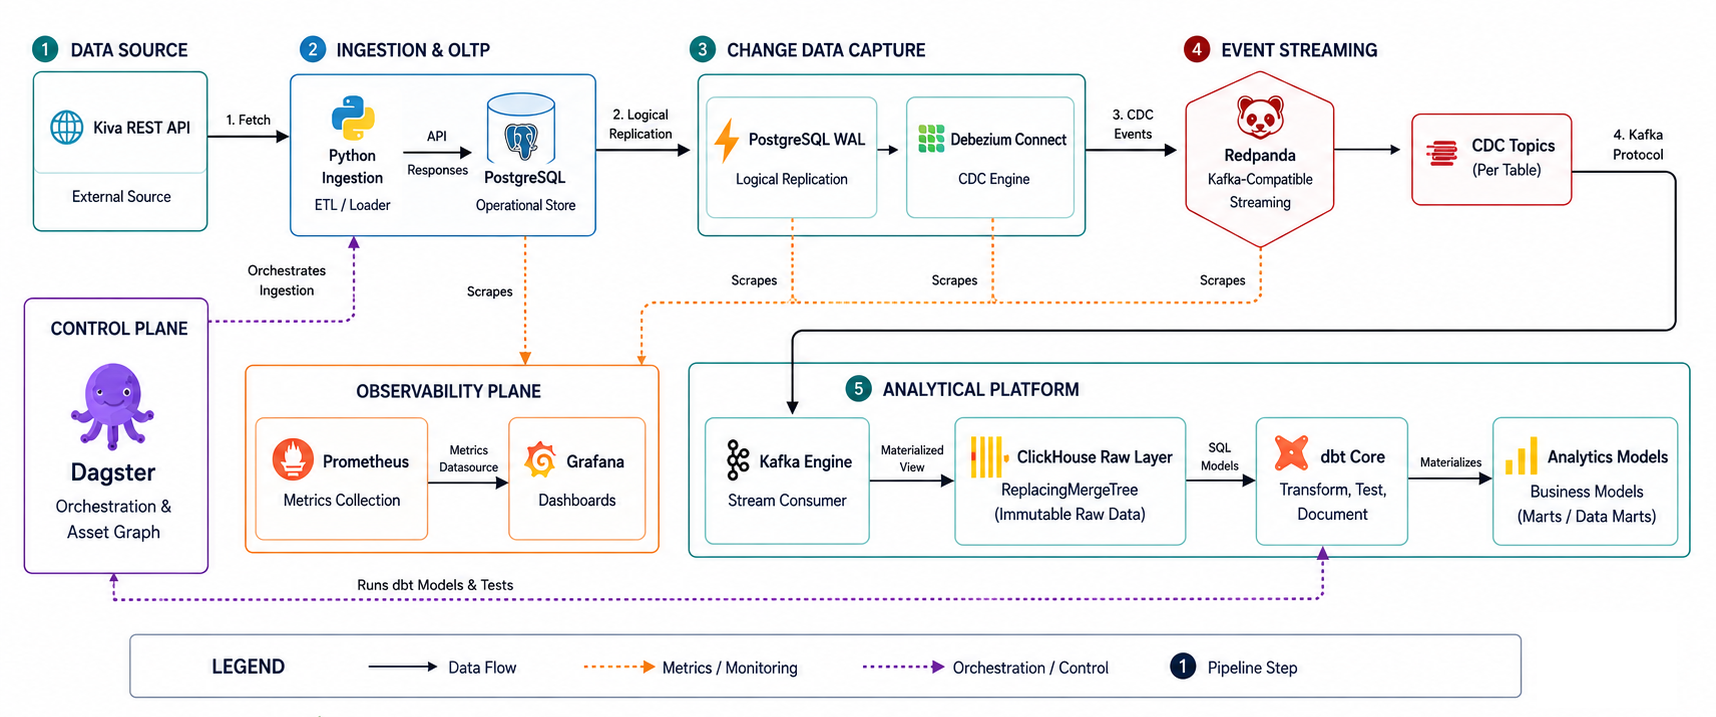
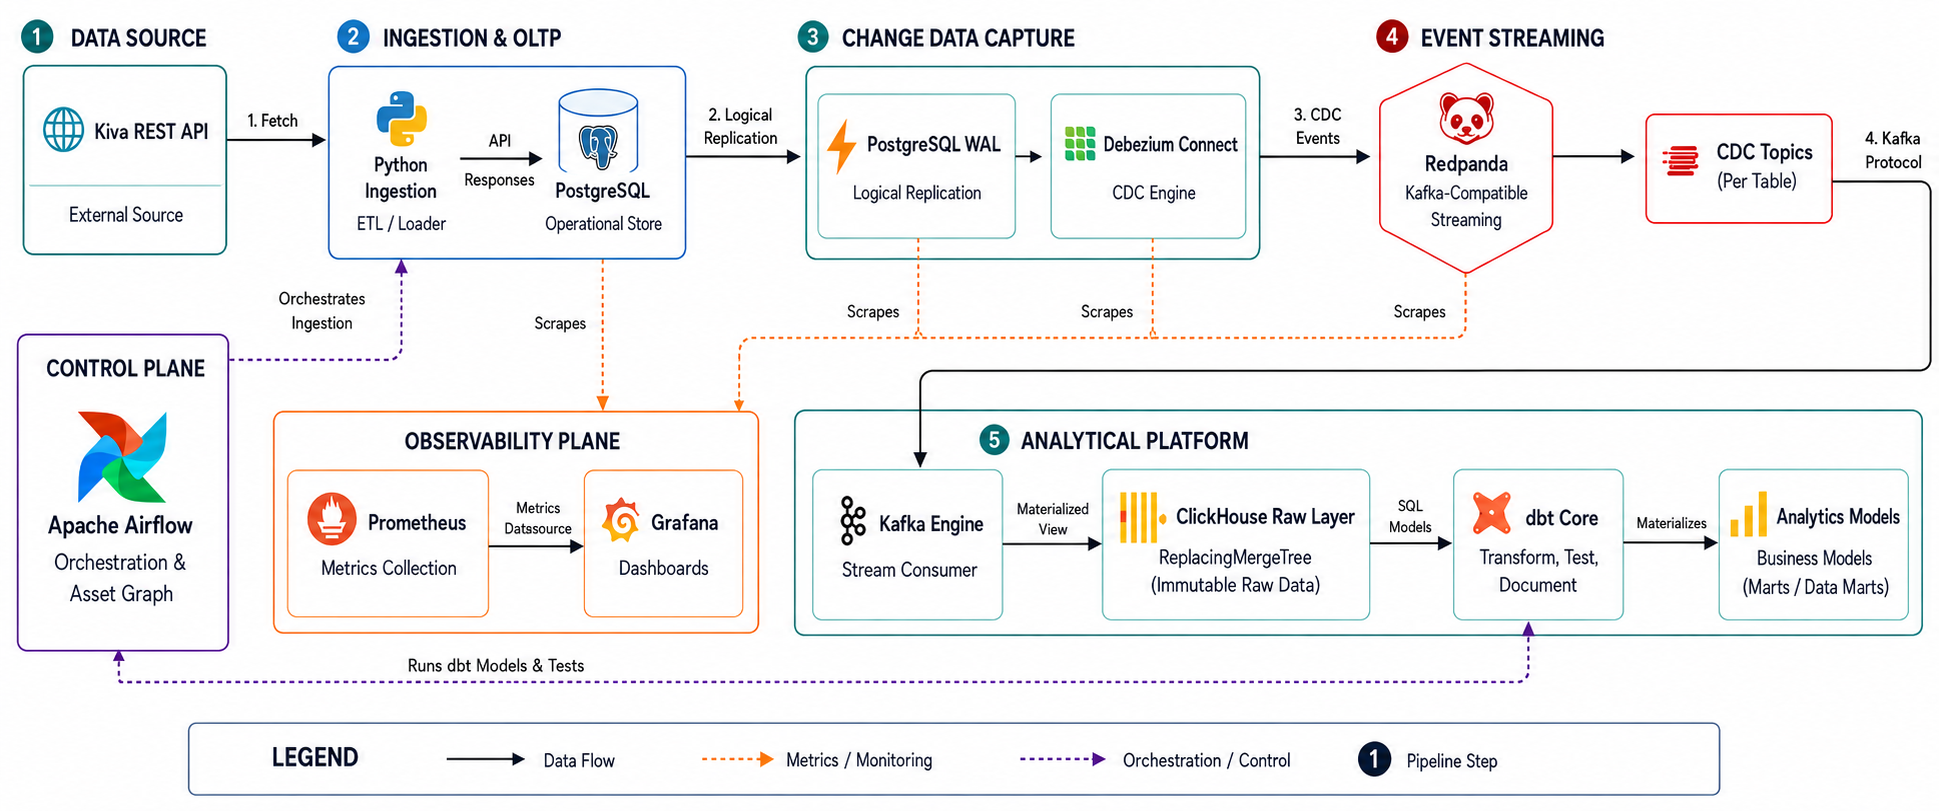
docs: embed architecture diagram in design report and update airflow documentation

diff --git a/README.md b/README.md
@@ -10,9 +10,9 @@ The architecture simulates a modern, resilient, and highly scalable data stack c
 2. **Change Data Capture (CDC):** **Debezium** tracking logical replication slots in Postgres, auto-registered at startup by a `connector-registrar` init container.
 3. **Event Stream:** **Redpanda** (A lightweight, C++ Kafka alternative requiring zero JVM overhead).
 4. **Data Warehouse (OLAP):** **ClickHouse**, utilizing native Kafka-engine ingestion to sink messages instantly without a dedicated connector service.
-5. **Transformation & Data Quality:** **dbt (Data Build Tool)** executing SQL transformations and data quality tests directly inside ClickHouse, docs served live via **dbt-docs**.
-6. **Orchestration:** **Dagster** orchestrating the entire lineage from API fetch -> CDC Buffer -> dbt Run -> dbt Test.
-7. **Observability:** **Prometheus & Grafana**, scraping Redpanda, ClickHouse, Postgres (`postgres-exporter`), and a custom **`cdc-monitor`** exporter that reconciles Postgres/ClickHouse row counts and measures real CDC replication lag - plus 4 provisioned Grafana alert rules.
+5. **Transformation & Data Quality:** **dbt (Data Build Tool)** executing SQL transformations and data quality tests directly inside ClickHouse, with its documentation site served live from the dbt service.
+6. **Orchestration:** **Apache Airflow** orchestrating the entire lineage from API fetch -> CDC Buffer -> dbt Run -> dbt Test.
+7. **Observability:** **Prometheus & Grafana**, scraping Redpanda, ClickHouse, Postgres (`postgres-exporter`), and a custom **`cdc-monitor`** exporter that reconciles Postgres/ClickHouse row counts and measures real CDC replication lag - plus 5 provisioned Grafana alert rules.
 
 ### Architecture Flow
 ![Inkomoko Data Platform Architecture](./architecture.png)
@@ -26,14 +26,14 @@ The diagram above shows the core data path. See [`docs/design-report.md`](./docs
 * **Redpanda over Kafka:** Kafka requires Zookeeper (or KRaft) and a massive JVM memory footprint. Redpanda is a C++ Kafka-compatible binary that runs in a fraction of the memory, avoiding local machine crashes during testing.
 * **ClickHouse over Postgres for Analytics:** Postgres is excellent for OLTP, but ClickHouse is a columnar analytical engine capable of processing billions of rows per second. By separating OLTP and OLAP, the architecture guarantees production stability.
 * **ClickHouse `FINAL` modifier for CDC:** Instead of complex SQL deduplication logic, the dbt staging model leverages ClickHouse's `ReplacingMergeTree` and `FINAL` modifier to instantly collapse CDC event history into the absolute latest state.
-* **Dagster over Airflow (For Local Assessment):** Airflow relies on a webserver, scheduler, and worker (often requiring multiple gigabytes of RAM). I moved to Dagster solely to run this project efficiently on limited local hardware. However, for an enterprise-grade orchestrator in a production environment, I would definitely go with **Apache Airflow**.
+* **Ultra-Lightweight Apache Airflow:** Rather than running a heavy multi-container Celery/Redis cluster, Airflow is configured in a resource-conscious single container (`SequentialExecutor` with throttled scheduler parsing and 1 gunicorn worker) capped at just 768MB RAM. This delivers the industry-standard orchestrator without hardware strain.
 * **Docker Compose Healthchecks & Network Isolation:** Every container implements strict health checks and startup sequencing, mitigating race conditions during localized deployment.
 * **Auto-Registered CDC Connector:** The Debezium connector config is a template rendered from `.env` credentials and POSTed automatically by a one-shot `connector-registrar` container that waits on Debezium's healthcheck. This is what makes `docker compose up -d` alone sufficient - no manual `curl` step.
 * **Reconciliation over inference:** Rather than assuming CDC "just works" because Redpanda/ClickHouse report healthy, `cdc-monitor` (`src/cdc_monitor.py`) directly compares Postgres and ClickHouse row counts and measures freshness lag using Postgres's own `updated_at` timestamp carried through the pipeline - a stalled or lossy connector is caught even when every infrastructure metric looks fine.
 
 ## Future Scalability
 If deploying this to an Enterprise Cloud environment (e.g., GCP or AWS) at massive scale, the architecture would evolve to ensure maximum resilience and throughput:
-1. **Enterprise Orchestration with Airflow:** While Dagster was used locally to bypass hardware constraints, I would absolutely migrate to **Apache Airflow** for the enterprise-grade orchestrator. Its distributed executors and massive community ecosystem make it the undisputed choice for scaling production pipelines.
+1. **Distributed Airflow on Kubernetes:** The lightweight standalone Airflow instance would scale to `KubernetesExecutor` with dynamic worker pods, dedicated task queues, and team-isolated namespaces.
 2. **Replacing Redpanda with Apache Kafka:** Redpanda was utilized for this local assessment to bypass JVM constraints, but considering the overload and stability requirements of a true production environment, I will use **Apache Kafka** in place of Redpanda. Kafka remains the battle-tested, enterprise standard for streaming data at immense scale.
 3. **dbt Fusion (Rust Engine):** Upgrading the transformation layer from the legacy Python-based `dbt-core` to the new Rust-based **dbt Fusion** execution engine. This would massively reduce DAG compilation times and memory overhead for projects with thousands of models.
 
@@ -73,7 +73,7 @@ The pipeline ingests real-time transactional loan records with the following sch
 The platform includes a production-grade `Makefile` that handles environment configuration, container dispatch, endpoint discovery, and validation with simple shortcuts:
 
 ```bash
-make up       # 1. Auto-initializes .env, boots all 16 containers, & prints all URLs
+make up       # 1. Auto-initializes .env, boots all 15 services, & prints all URLs
 make urls     # 2. Displays the complete reviewer dashboard with URLs and credentials
 make verify   # 3. Automatically validates all 6 stages of the data pipeline end-to-end
 make ps       # 4. Lists all active & inactive containers with healthcheck statuses
@@ -85,7 +85,7 @@ make help     # 5. Interactive menu with all lifecycle, database, and debugging 
 cp .env.example .env   # optional: only needed if you want to override defaults
 docker compose up -d
 ```
-This starts **everything**: Postgres, Redpanda, Debezium, the `connector-registrar`, ClickHouse, `dbt-docs`, Dagster, `cdc-monitor`, `postgres-exporter`, Prometheus, Grafana, Redpanda Console, and the Debezium UI.
+This starts **everything**: Postgres, Redpanda, Debezium, the `connector-registrar`, ClickHouse, `dbt` (transforms + docs server), Airflow, `cdc-monitor`, `postgres-exporter`, Prometheus, Grafana, Redpanda Console, and the Debezium UI.
 
 Give it 30–60 seconds on first boot for image pulls and healthchecks. Confirm everything is up:
 ```bash
@@ -106,22 +106,26 @@ The platform provides dedicated `make` targets to inspect, stop, and wipe contai
 | **List Active Only** | `make ps-active` | `docker compose ps` | Filters and displays **only currently running** containers. |
 | **Stop Active Containers** | `make stop` | `docker compose stop` | Gracefully **stops active containers** without removing them (preserves container states and network definitions). |
 | **Stop & Remove Containers** | `make down` | `docker compose down` | Gracefully **stops and removes all containers and internal networks**. |
-| **Clear Containers & Volumes** | `make clear` *(or `make clean`)* | `docker compose down -v --remove-orphans` | Completely tears down containers, networks, **deletes persistent database volumes** (`pg_data`, `redpanda_data`, `ch_data`), and clears local dbt build artifacts. *(Pass `force=true` for non-interactive scripts).* |
+| **Clear Containers & Volumes** | `make clear` *(or `make clean`)* | `docker compose down -v --remove-orphans` | Completely tears down containers, networks, **deletes persistent database volumes** (`pg_data`, `redpanda_data`, `ch_data`, `airflow_data`), and clears local dbt build artifacts. *(Pass `force=true` for non-interactive scripts).* |
 | **Full Clean Reset** | `make reset` | `make clean && make up` | Wipes volumes/containers to a clean slate, then boots and re-initializes the entire stack fresh. |
 
-### 2. Run the Orchestration Pipeline (Dagster)
-Open your browser and navigate to **[http://localhost:3000](http://localhost:3000)**.
-1. Click on **Assets** in the top navigation bar.
-2. Click **Materialize All** to run the full pipeline.
+### 2. Run the Orchestration Pipeline (Apache Airflow)
+Open your browser and navigate to **[http://localhost:8088](http://localhost:8088)** *(Credentials are configured via `.env` — `AIRFLOW_WEB_USER` / `AIRFLOW_WEB_PASSWORD`)*.
+1. Locate the DAG named **`inkomoko_kiva_pipeline`**.
+2. Unpause the DAG (toggle to ON) or click the **Trigger DAG** (▶) button to execute the full pipeline immediately.
+*(Alternatively, trigger it directly from the terminal via `make airflow-run`).*
 
 **What happens under the hood?**
-1. Dagster executes the Python script to fetch real Kiva Loan data and upserts it into Postgres.
+1. Airflow executes the Python script to fetch real Kiva Loan data and upserts it into Postgres.
 2. Debezium captures the inserts/updates and streams them as JSON into Redpanda.
 3. ClickHouse consumes the Redpanda stream instantly into `raw_data.kiva_loans_raw`.
-4. Dagster runs `dbt run` to materialize the models in ClickHouse.
-5. Dagster runs `dbt test` to enforce data quality constraints (Unique IDs, Non-Null values, Accepted Statuses).
+4. Airflow runs `dbt run` to materialize the models in ClickHouse.
+5. Airflow runs `dbt test` to enforce data quality constraints (Unique IDs, Non-Null values, Accepted Statuses).
+6. Airflow runs `dbt source freshness` to enforce the staging-source freshness thresholds (`warn_after 15m` / `error_after 30m` in `dbt_project/models/staging/src_kiva.yml`).
 
-It also runs unattended every 15 minutes (`*/15 * * * *`, defined in `dagster_orchestration/definitions.py`) once the Dagster container is up - frequent enough to keep the Kiva loan data close to real-time without hammering a free public API or forcing needlessly frequent full-refresh dbt rebuilds. The CDC path itself (Postgres → Debezium → Redpanda → ClickHouse) is already near-real-time independent of this schedule; the 15-minute cadence only controls how often we poll Kiva for new external data.
+It also runs unattended every 15 minutes (`*/15 * * * *`, defined in `airflow_dags/inkomoko_kiva_pipeline.py`) once the Airflow container is up - frequent enough to keep the Kiva loan data close to real-time without hammering a free public API or forcing needlessly frequent full-refresh dbt rebuilds. The CDC path itself (Postgres → Debezium → Redpanda → ClickHouse) is already near-real-time independent of this schedule; the 15-minute cadence only controls how often we poll Kiva for new external data.
+
+The per-run backfill depth is tunable via `.env` (wired end-to-end into the Airflow container and the ingest task): `KIVA_PAGES` (how many pages to pull) and `KIVA_PER_PAGE` (records per page) - defaulting to 3 × 100 = 300 loans per run.
 
 ---
 
@@ -131,7 +135,7 @@ Check each stage independently, in order:
 
 **1. Ingestion landed in Postgres:**
 ```bash
-docker exec -it inkomoko_postgres psql -U inkomoko_admin -d inkomoko_oltp \
+docker exec -it inkomoko_postgres psql -U ${POSTGRES_USER} -d ${POSTGRES_DB} \
   -c "SELECT COUNT(*), MAX(updated_at) FROM raw_data.kiva_loans;"
 ```
 
@@ -160,13 +164,13 @@ docker exec -it inkomoko_clickhouse clickhouse-client \
 docker exec -it inkomoko_clickhouse clickhouse-client \
   --query "SELECT COUNT(*) FROM analytics.mart_loan_features_ml"
 ```
-Or browse the generated docs/lineage graph at **dbt-docs**: [http://localhost:8085](http://localhost:8085).
+Or browse the generated docs/lineage graph at **dbt-docs** (served by the `dbt` service): [http://localhost:8081](http://localhost:8081).
 
 **6. End-to-end CDC integrity (no dropped/stale rows):**
 ```bash
-curl -s http://localhost:9200/metrics | grep -E "cdc_row_count_drift|cdc_replication_lag_seconds"
+curl -s http://localhost:9200/metrics | grep -E "cdc_row_count_drift|cdc_replication_lag_seconds|ingestion_last_activity"
 ```
-`cdc_row_count_drift` should trend toward `0` and `cdc_replication_lag_seconds` should stay low (single-digit to low-double-digit seconds) once the pipeline is idle. Both are also plotted live on the **Inkomoko Pipeline Observability** Grafana dashboard.
+`cdc_row_count_drift` should trend toward `0`, `cdc_replication_lag_seconds` should stay low (single-digit to low-double-digit seconds) once the pipeline is idle, and `ingestion_last_activity_timestamp_seconds` should track the most recent Kiva ingestion run. All three are also plotted/live on the **Inkomoko Pipeline Observability** Grafana dashboard (ingestion activity powers the `kiva-ingestion-stalled` alert).
 
 ---
 
@@ -174,7 +178,7 @@ curl -s http://localhost:9200/metrics | grep -E "cdc_row_count_drift|cdc_replica
 * **Grafana Dashboards:** http://localhost:3001 (`admin` / `inkomoko`)
   - **Inkomoko Pipeline Observability:** operational metrics - Redpanda throughput, ClickHouse memory/queries/write ops, Postgres-vs-ClickHouse row reconciliation, CDC replication lag, Debezium connector state, Postgres exporter status.
   - **Inkomoko Executive Loan Analytics:** business intelligence & ML feature distributions querying the ClickHouse marts directly.
-* **Grafana Alerting:** http://localhost:3001/alerting/list - 4 provisioned rules (CDC row drift, CDC replication lag, Debezium connector down, ClickHouse ingestion stalled), routed by a provisioned notification policy to a real email contact point. See [`docs/observability.md`](./docs/observability.md) for the full design and rationale.
+* **Grafana Alerting:** http://localhost:3001/alerting/list - 5 provisioned rules (CDC row drift, CDC replication lag, Debezium connector down, ClickHouse ingestion stalled, Kiva ingestion stalled), routed by a provisioned notification policy to a real email contact point. See [`docs/observability.md`](./docs/observability.md) for the full design and rationale.
 * **Alert emails:** captured by **Mailpit** at http://localhost:8025 (a local SMTP catcher - no real credentials needed to see alerting work end-to-end). To manually trigger one: `docker stop inkomoko_debezium`, wait ~2-3 minutes for the `debezium-connector-down` rule to fire, check the email at localhost:8025, then `docker start inkomoko_debezium` to resolve it. See [`docs/observability.md`](./docs/observability.md#3-alerting) for the full walkthrough, including how to point this at a real mailbox instead.
 * **Prometheus Targets:** http://localhost:9090/targets - `redpanda`, `clickhouse`, `postgres-exporter`, `cdc-monitor`.
 
@@ -185,5 +189,5 @@ curl -s http://localhost:9200/metrics | grep -E "cdc_row_count_drift|cdc_replica
 Defined in [`.github/workflows/ci.yml`](./.github/workflows/ci.yml), triggered on every push/PR to `main`/`master`. Three staged jobs - each gated on the previous one passing, so cheap/fast feedback happens before the expensive full-stack test runs:
 
 1. **Lint & Unit Test** - `flake8` (fails the build on syntax errors/undefined names; warns on style) + `pytest tests/` (ingestion logic and CDC-monitor drift/lag/connector-health calculations, all mocked - no live services required).
-2. **Docker Compose & dbt Validation** - `docker compose config` (catches YAML/interpolation errors) + `dbt parse` (catches dbt syntax/ref errors) as a fast smoke test.
-3. **End-to-End CDC + dbt Integration Test** - actually stands up Postgres, Redpanda, Debezium, ClickHouse, `cdc-monitor`, and `postgres-exporter`; auto-registers the Debezium connector; runs the real ingestion script against the live stack; polls ClickHouse until CDC-replicated rows are observed; runs `dbt run` and `dbt test` against the live warehouse; and checks that `cdc-monitor`'s `/metrics` endpoint is reporting real values. This is what catches a connector config or model that's syntactically valid but functionally broken - the previous version of this pipeline only ran `dbt parse`, which cannot catch that class of bug.
+2. **Docker Compose & dbt Validation** - `docker compose config` (catches YAML/interpolation errors) + `dbt parse` (catches dbt syntax/ref errors) as a fast smoke test, plus an **Airflow DAG import check** that loads every DAG through `DagBag` inside the official Airflow image so a broken task definition is caught in CI rather than on the first schedule tick.
+3. **End-to-End CDC + dbt Integration Test** - actually stands up Postgres, Redpanda, Debezium, ClickHouse, `cdc-monitor`, and `postgres-exporter`; auto-registers the Debezium connector; runs the real ingestion script against the live stack; polls ClickHouse until CDC-replicated rows are observed; runs `dbt run`, `dbt test`, and `dbt source freshness` against the live warehouse; and checks that `cdc-monitor`'s `/metrics` endpoint is reporting real values. This is what catches a connector config or model that's syntactically valid but functionally broken - the previous version of this pipeline only ran `dbt parse`, which cannot catch that class of bug.

diff --git a/docs/design-report.md b/docs/design-report.md
@@ -7,8 +7,11 @@ meant to be read alongside [`README.md`](../README.md) (how to run it) and
 
 ## 1. Architecture
 
-`architecture.png` (repo root) shows the core data path. The diagram below is
-the current full stack, including the reliability/observability components:
+![Inkomoko Data Platform Architecture](../architecture.png)
+
+The diagram above illustrates the complete end-to-end data platform architecture, capturing data sourcing, OLTP ingestion, logical CDC replication, Redpanda event streaming, ClickHouse OLAP with dbt modeling, Apache Airflow orchestration, and full-stack Prometheus & Grafana observability.
+
+Below is the complementary component-level service topology:
 
 ```mermaid
 flowchart LR
@@ -44,7 +47,7 @@ flowchart LR
     end
 
     subgraph Orchestration
-        DAG[Dagster: ingest asset -> dbt run -> dbt test]
+        DAG[Airflow: ingest task -> dbt run -> dbt test]
     end
 
     subgraph Observability
@@ -95,9 +98,9 @@ flowchart LR
 4. **Transform** - dbt reads `kiva_loans_raw FINAL` (staging), applies business
    logic (intermediate), and produces two marts: an aggregated BI mart and an
    ML feature-engineering mart.
-5. **Orchestrate** - a Dagster asset graph chains ingestion → (buffer for CDC
+5. **Orchestrate** - an Apache Airflow DAG chains ingestion → (buffer for CDC
    propagation) → `dbt run` → `dbt test`, scheduled every 15 minutes and
-   runnable on demand from the Dagster UI. The 15-minute cadence governs only
+   runnable on demand from the Airflow UI. The 15-minute cadence governs only
    how often we poll Kiva for new external data; the CDC path itself
    (Postgres → Debezium → Redpanda → ClickHouse) is already near-real-time
    independent of this schedule.
@@ -211,7 +214,7 @@ this" answer the assessment asks for, made concrete instead of abstract.
 | **Current (~10²–10³ rows/day)** | Nothing - this is the tier the current build is tuned for. | - |
 | **10⁴–10⁶ rows/day** (single growing source) | `dbt run` full-refresh table materializations for the marts get slower; `ReplacingMergeTree` merge overhead grows. | Switch marts to **incremental** dbt models (`is_incremental()` + `unique_key`); rely on the `toYYYYMM(posted_date)` partitioning already in place to scope merges/backfills to affected months only; add ClickHouse `TTL` on `kiva_loans_raw` to age out obsolete CDC versions. |
 | **10⁶–10⁸ rows/day / multiple OLTP sources** | Single Redpanda broker and single-node ClickHouse become the bottleneck; Debezium `tasks.max: 1` can't keep up with WAL volume. | Move to **Apache Kafka** with multiple partitions per topic (Redpanda was chosen here purely to avoid the JVM footprint on a laptop - see `README.md` → Design Decisions); scale Debezium connector tasks per table; move to a **ClickHouse cluster** (sharded + replicated) with `Distributed` engine tables; introduce a schema registry (Avro/Protobuf) instead of raw JSON to catch upstream schema drift before it reaches ClickHouse. |
-| **Enterprise / multi-team** | A single Dagster `dagster dev` process and a single `dbt` project become an operational and ownership bottleneck. | Migrate orchestration to **Apache Airflow** with dedicated executors (already the stated production target - see `README.md`); split the dbt project by domain with `dbt mesh`/multi-project `dbt-core` patterns; adopt **dbt Fusion** (Rust engine) for compile-time performance on a much larger DAG; add a proper data catalog / lineage tool (e.g. OpenLineage) since `cdc-monitor`'s reconciliation approach stops being sufficient once there are many source tables instead of one. |
+| **Enterprise / multi-team** | A single standalone Airflow instance and a single `dbt` project become an operational and ownership bottleneck. | Scale orchestration to distributed **Apache Airflow** on Kubernetes (`KubernetesExecutor` / `CeleryExecutor`) with isolated worker pools and dedicated team queues; split the dbt project by domain with `dbt mesh`/multi-project `dbt-core` patterns; adopt **dbt Fusion** (Rust engine) for compile-time performance on a much larger DAG; add a proper data catalog / lineage tool (e.g. OpenLineage) since `cdc-monitor`'s reconciliation approach stops being sufficient once there are many source tables instead of one. |
 
 ## 6. Beyond the Brief
 
@@ -249,9 +252,7 @@ rather than just a working demo:
    panel in that dashboard ("datasource not found"). Both datasources now
    have explicit, stable `uid`s (`prometheus`, `clickhouse`) referenced
    consistently across all provisioned dashboards and alert rules.
-6. **Browsable dbt documentation.** `dbt-docs` is served on
-   `http://localhost:8085`, giving reviewers an interactive lineage graph and
-   column-level catalog instead of only static markdown.
+6. **Browsable dbt documentation.** The `dbt` service generates and serves the documentation site on `http://localhost:8081`, giving reviewers an interactive lineage graph and column-level catalog instead of only static markdown. Regenerating docs after a `dbt run` (`make dbt-run` / `make dbt-docs`) refreshes the served site with no restart.
 7. **Grafana OOM fixed at the root cause, not papered over -- including a
    regression caught and fixed in the same investigation.** After adding
    unified alerting, Grafana started getting silently killed by Docker

diff --git a/docs/data_model.md b/docs/data_model.md
@@ -19,7 +19,7 @@ PostgreSQL (OLTP) ➔ Debezium CDC ➔ Redpanda (Kafka) ➔ ClickHouse MV ➔ St
 
 ### Layer 2: Staging Layer (`analytics.stg_kiva_loans`)
 - Materialized as a dbt view.
-- Cleans data types, standardizes column names, applies deduplication logic via `argMax()`, and filters out soft-deleted records (`is_deleted = 0`).
+- Cleans data types, standardizes column names, applies deduplication via ClickHouse's `FINAL` modifier (leveraging `ReplacingMergeTree` in the raw table), and filters out soft-deleted records (`is_deleted = 0`).
 
 ### Layer 3: Intermediate Layer (`analytics.int_loans_enriched`)
 - Materialized as a dbt view.
